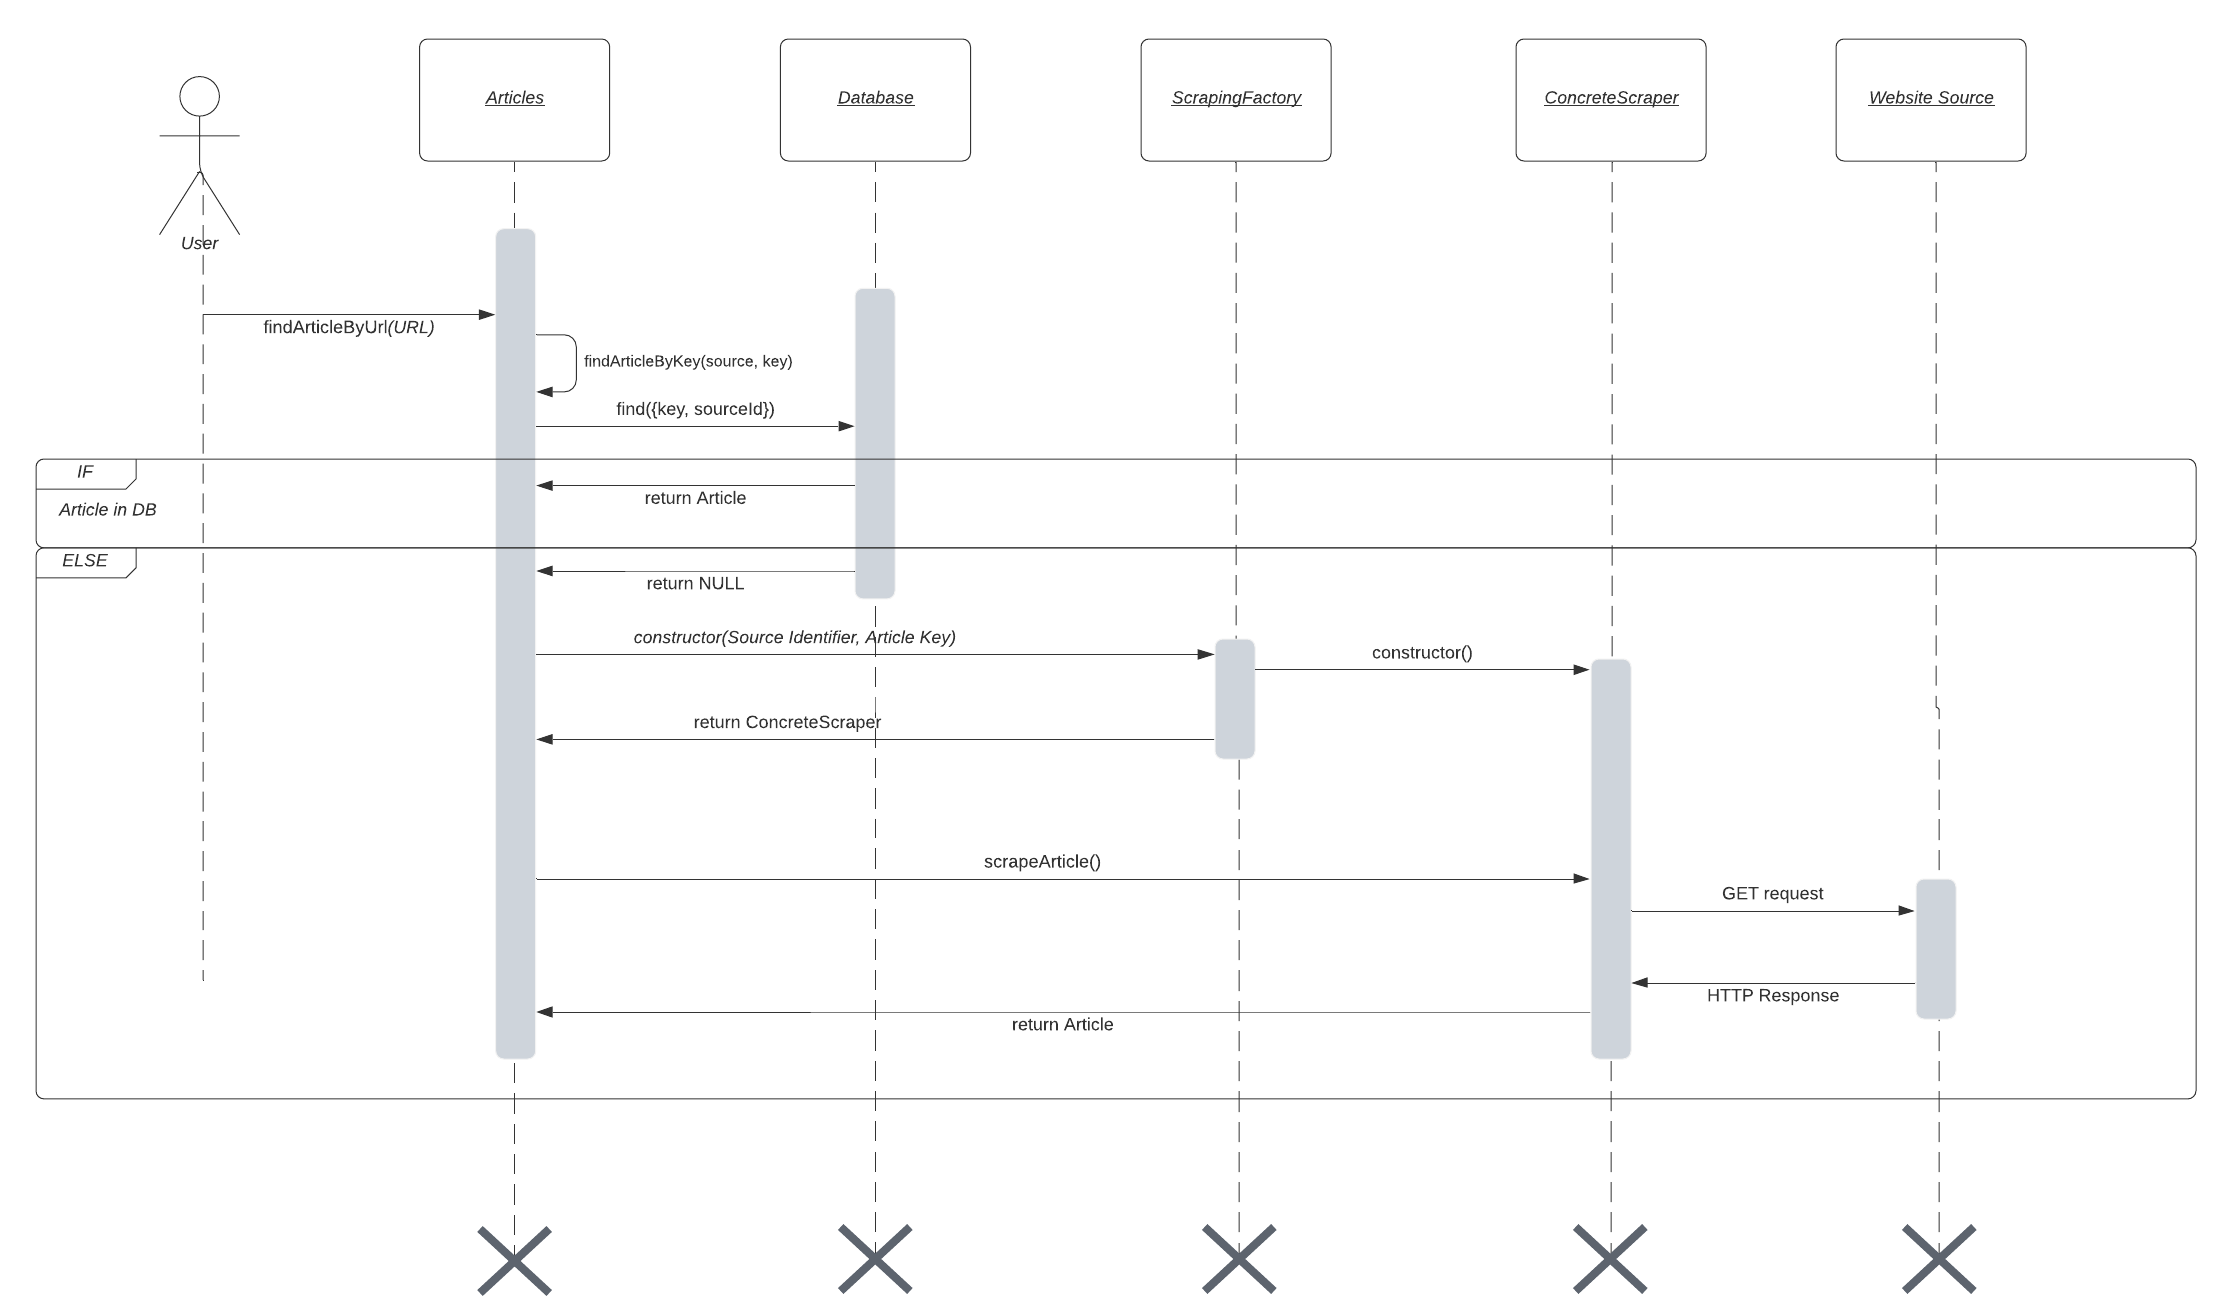
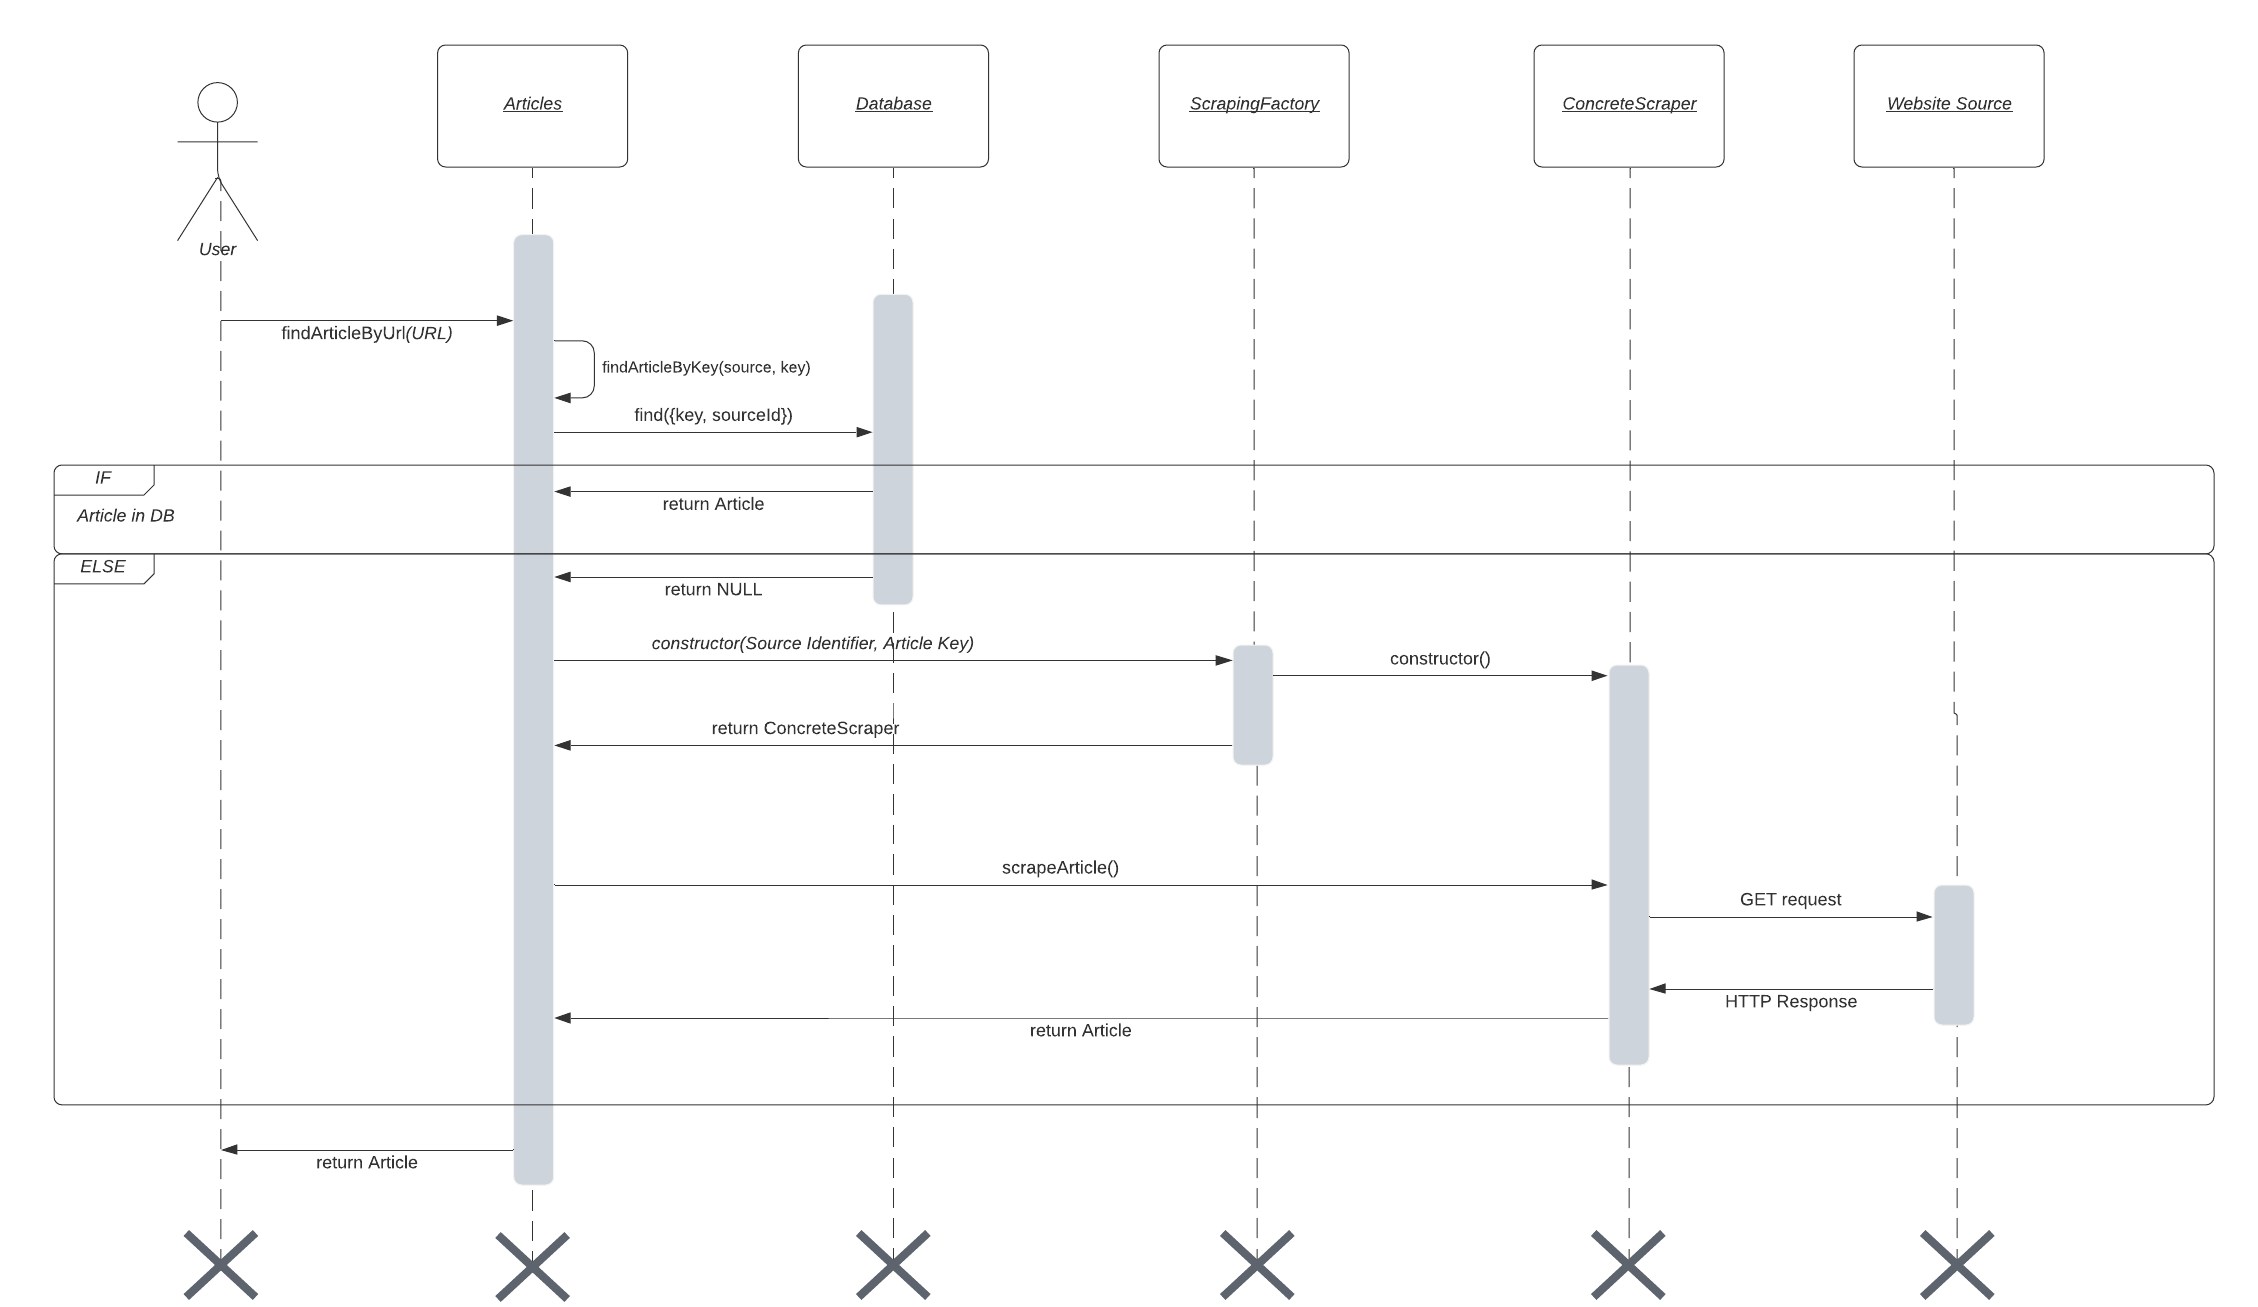
added pipeline description

diff --git a/src/models/readme.md b/src/models/readme.md
@@ -128,8 +128,16 @@ When N users have given the answer a positive review, then the answer is conside
 
 ## Open Article By URL
 
-TODO: fill out
-TODO: fix usuer
+Articles can be opened via URL. This means, that if we have an article URL (which we might have gotten through Google Search) we can use that to retrieve an Article instance. This process -- as seen from the user -- which is typically initiated by the him by calling the API is transparent of whether we keep a cache of the article or not.
+
+The reason for why some articles are cached or not is twofold:
+
+1. There could potentially be millions of articles available to us and we really do not want to keep a backup of these sites, especially since our answers might only reference a thousand of them.
+
+2. We need to store a copy of the article starting from the time the article is referenced (for example) by an answer. At that point in time, an answer is dependant on the contents of the article and if the article were to change, the answer metadata would be invalid. Thus, such content is sought from our cache instead of the world wide web.
+
+Sites not in the cache are scraped in real time. We used a factory design pattern to allow easy scraping of multiple sites. The code documentation contains additional information about these processes. Further information about scraping and adding a new scraper can be found [here](https://github.com/cadia-lvl/qa-crowdsourcing-api/blob/main/src/models/Articles/ScrapingService/readme.md).
+
 ![Screenshot](__UML__/ArticleCaching.png)
 
 ## Google Search
